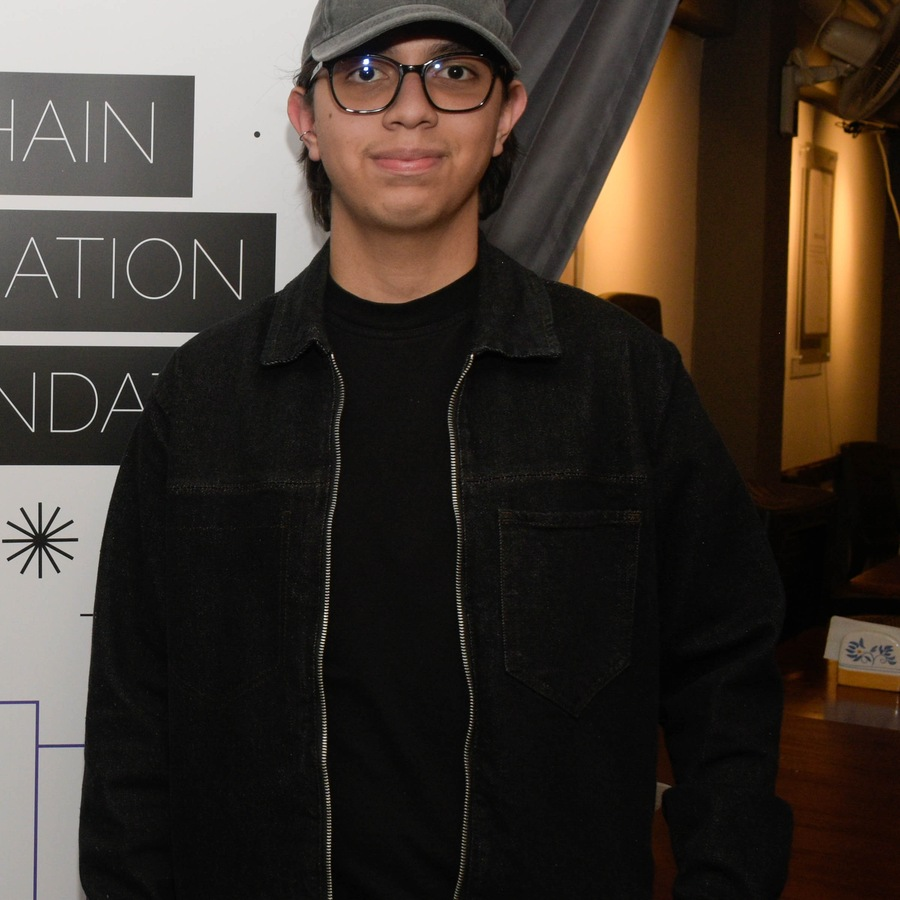
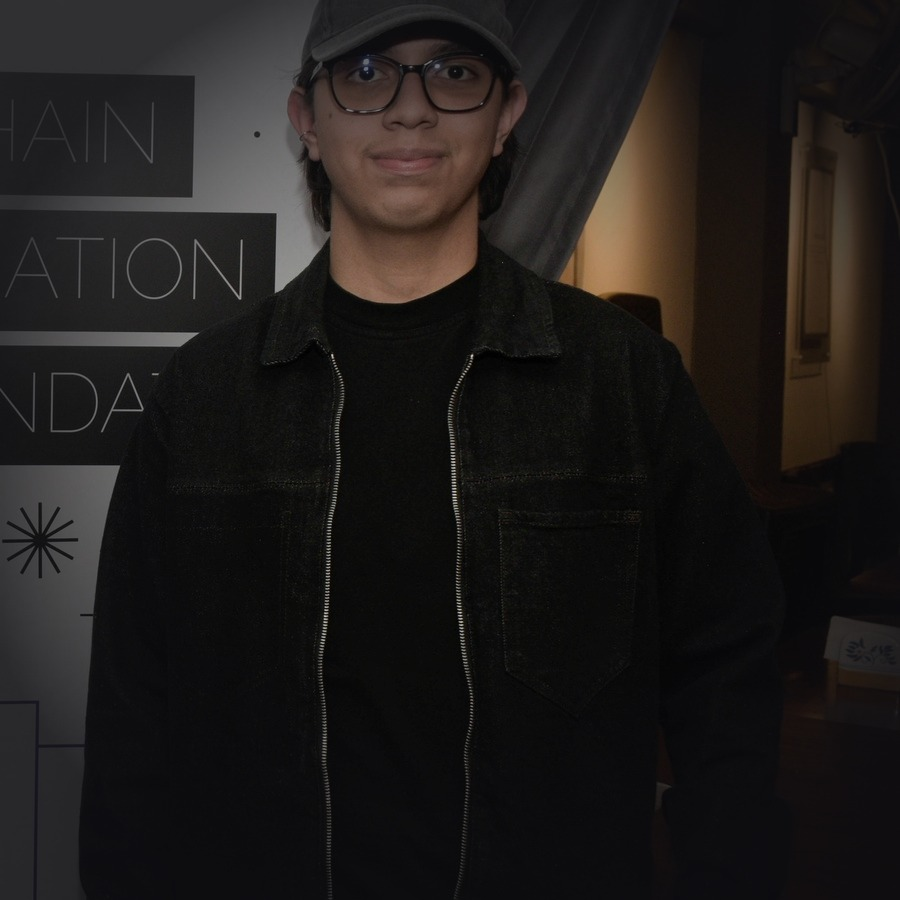
p9: unify team photo backgrounds with soft dark vignette
Replace portraits with vignetted versions and cache-bust img URLs.

diff --git a/p9/index.html b/p9/index.html
@@ -205,7 +205,7 @@ html,body{overflow-x:clip}
 <div class="rec"><article><b>01</b><h3>Talleres prácticos</h3><p>Sesiones para aprender haciendo, desde lo básico hasta lo aplicado.</p></article><article><b>02</b><h3>Material educativo</h3><p>Guías, recursos y contenido curado para explorar Web3 a tu ritmo.</p></article><article><b>03</b><h3>Networking y comunidad</h3><p>Espacios para conectar con personas, ideas y proyectos.</p></article><article><b>04</b><h3>Oportunidades</h3><p>Difusión de programas, convocatorias y espacios para participar.</p></article></div></section>
 <section><div class="hd"><h2><span class="thin">Así se vive</span><br><span class="heavy">ZEEK</span></h2></div><div class="gal"><figure class="big"><img src="assets/g-aleph-grupo.jpg" alt="Aleph Hackathon II" loading="lazy"><figcaption>Aleph Hackathon II</figcaption></figure><figure class=""><img src="assets/g-dev3pack.jpg" alt="Dev3Pack x Solana" loading="lazy"><figcaption>Dev3Pack x Solana</figcaption></figure><figure class=""><img src="assets/g-aleph-build.jpg" alt="Aleph Hackathon" loading="lazy"><figcaption>Aleph Hackathon</figcaption></figure><figure class=""><img src="assets/g-cursor.jpg" alt="Cursor Meetup San José" loading="lazy"><figcaption>Cursor Meetup San José</figcaption></figure><figure class=""><img src="assets/g-tico.jpg" alt="TicoBlockchain" loading="lazy"><figcaption>TicoBlockchain</figcaption></figure><figure class="wide"><img src="assets/gal-una-wide.jpg" alt="Meet Up UNA · 9 de mayo" loading="lazy"></figure><figure class=""><img src="assets/g-sesiones.jpg" alt="Encuentros ZEEK" loading="lazy"><figcaption>Encuentros ZEEK</figcaption></figure><figure class=""><img src="assets/g-meetup.jpg" alt="Meetup ZEEK" loading="lazy"><figcaption>Meetup ZEEK</figcaption></figure></div></section>
 
-<section id="equipo"><div class="hd"><h2><span class="thin">Las personas</span><br><span class="heavy">detrás de ZEEK</span></h2><p>Conocenos. El equipo que hace posible la comunidad.</p></div><div class="team" id="tcar"><button class="arr tarr" id="tpv" type="button" aria-label="Anterior">←</button><button class="arr tarr" id="tnx" type="button" aria-label="Siguiente">→</button><div class="fl3"><div class="fi3"><div class="fa3"><div class="av3"><img src="assets/team/sebastian.jpg" alt="Sebastián Ceciliano" width="120" height="120" loading="lazy" decoding="async"></div><div class="nm"><h4>Sebastián Ceciliano</h4><span class="ib" aria-hidden="true"><svg viewBox="0 0 24 24"><polyline points="3 17 9 11 13 15 21 7"/><polyline points="15 7 21 7 21 13"/></svg></span></div></div><div class="fb3"><div class="rl">Growth Head</div><p>Lidera el crecimiento de ZEEK, sumando aliados y nuevas oportunidades para la comunidad.</p></div></div></div><div class="fl3"><div class="fi3"><div class="fa3"><div class="av3"><img src="assets/team/tamara.jpg" alt="Tamara Ortega" width="120" height="120" loading="lazy" decoding="async"></div><div class="nm"><h4>Tamara Ortega</h4><span class="ib" aria-hidden="true"><svg viewBox="0 0 24 24"><path d="M9.6 2.8h4.8l.55 2.15a6.9 6.9 0 0 1 1.85.95l2.1-.9 2.4 4.15-1.7 1.55c.12.45.18.92.18 1.4s-.06.95-.18 1.4l1.7 1.55-2.4 4.15-2.1-.9a6.9 6.9 0 0 1-1.85.95L14.4 21.2H9.6l-.55-2.15a6.9 6.9 0 0 1-1.85-.95l-2.1.9-2.4-4.15 1.7-1.55A6.8 6.8 0 0 1 4.22 12c0-.48.06-.95.18-1.4L2.7 9.05l2.4-4.15 2.1.9a6.9 6.9 0 0 1 1.85-.95L9.6 2.8z"/><circle cx="12" cy="12" r="3.1"/></svg></span></div></div><div class="fb3"><div class="rl">Operations Head</div><p>Lleva a cabo que los proyectos de ZEEK pasen del papel a la realidad.</p></div></div></div><div class="fl3"><div class="fi3"><div class="fa3"><div class="av3"><img src="assets/team/emilio.jpg" alt="Emilio Alfaro" width="120" height="120" loading="lazy" decoding="async"></div><div class="nm"><h4>Emilio Alfaro</h4><span class="ib" aria-hidden="true"><svg viewBox="0 0 24 24"><path d="M4.5 5.5h11a2 2 0 0 1 2 2v5.2a2 2 0 0 1-2 2H10l-3.2 2.6V14.7H4.5a2 2 0 0 1-2-2V7.5a2 2 0 0 1 2-2z"/><path d="M9.2 16.8h6.3l2.6 2.1v-2.1h.4a2 2 0 0 0 2-2V10"/></svg></span></div></div><div class="fb3"><div class="rl">Communications Head</div><p>Cuenta lo que pasa en ZEEK, compartiendo lo que la comunidad construye.</p></div></div></div><div class="fl3"><div class="fi3"><div class="fa3"><div class="av3"><img src="assets/team/esteban.jpg" alt="Esteban Brenes" width="120" height="120" loading="lazy" decoding="async"></div><div class="nm"><h4>Esteban Brenes</h4><span class="ib" aria-hidden="true"><svg viewBox="0 0 24 24"><polyline points="8 6 3 12 8 18"/><polyline points="16 6 21 12 16 18"/><line x1="13.5" y1="5" x2="10.5" y2="19"/></svg></span></div></div><div class="fb3"><div class="rl">Technical Head</div><p>Acompaña a los builders de ZEEK en el desarrollo de cada proyecto.</p></div></div></div><div class="fl3"><div class="fi3"><div class="fa3"><div class="av3"><img src="assets/team/josue.jpg" alt="Josué Valles" width="120" height="120" loading="lazy" decoding="async"></div><div class="nm"><h4>Josué Valles</h4><span class="ib" aria-hidden="true"><svg viewBox="0 0 24 24"><rect x="3.5" y="5" width="17" height="15.5" rx="2"/><line x1="3.5" y1="10" x2="20.5" y2="10"/><line x1="8" y1="3.5" x2="8" y2="7"/><line x1="16" y1="3.5" x2="16" y2="7"/><circle cx="8.5" cy="14.2" r="0.9" fill="#01E576" stroke="none"/><circle cx="12" cy="14.2" r="0.9" fill="#01E576" stroke="none"/><circle cx="15.5" cy="14.2" r="0.9" fill="#01E576" stroke="none"/></svg></span></div></div><div class="fb3"><div class="rl">Logistics Head</div><p>Coordina que cada evento de la comunidad esté listo, desde el espacio hasta los detalles.</p></div></div></div></div><div class="cc tcc"><div class="dots" id="tdots"></div></div></section>
+<section id="equipo"><div class="hd"><h2><span class="thin">Las personas</span><br><span class="heavy">detrás de ZEEK</span></h2><p>Conocenos. El equipo que hace posible la comunidad.</p></div><div class="team" id="tcar"><button class="arr tarr" id="tpv" type="button" aria-label="Anterior">←</button><button class="arr tarr" id="tnx" type="button" aria-label="Siguiente">→</button><div class="fl3"><div class="fi3"><div class="fa3"><div class="av3"><img src="assets/team/sebastian.jpg?v=vignette1" alt="Sebastián Ceciliano" width="120" height="120" loading="lazy" decoding="async"></div><div class="nm"><h4>Sebastián Ceciliano</h4><span class="ib" aria-hidden="true"><svg viewBox="0 0 24 24"><polyline points="3 17 9 11 13 15 21 7"/><polyline points="15 7 21 7 21 13"/></svg></span></div></div><div class="fb3"><div class="rl">Growth Head</div><p>Lidera el crecimiento de ZEEK, sumando aliados y nuevas oportunidades para la comunidad.</p></div></div></div><div class="fl3"><div class="fi3"><div class="fa3"><div class="av3"><img src="assets/team/tamara.jpg?v=vignette1" alt="Tamara Ortega" width="120" height="120" loading="lazy" decoding="async"></div><div class="nm"><h4>Tamara Ortega</h4><span class="ib" aria-hidden="true"><svg viewBox="0 0 24 24"><path d="M9.6 2.8h4.8l.55 2.15a6.9 6.9 0 0 1 1.85.95l2.1-.9 2.4 4.15-1.7 1.55c.12.45.18.92.18 1.4s-.06.95-.18 1.4l1.7 1.55-2.4 4.15-2.1-.9a6.9 6.9 0 0 1-1.85.95L14.4 21.2H9.6l-.55-2.15a6.9 6.9 0 0 1-1.85-.95l-2.1.9-2.4-4.15 1.7-1.55A6.8 6.8 0 0 1 4.22 12c0-.48.06-.95.18-1.4L2.7 9.05l2.4-4.15 2.1.9a6.9 6.9 0 0 1 1.85-.95L9.6 2.8z"/><circle cx="12" cy="12" r="3.1"/></svg></span></div></div><div class="fb3"><div class="rl">Operations Head</div><p>Lleva a cabo que los proyectos de ZEEK pasen del papel a la realidad.</p></div></div></div><div class="fl3"><div class="fi3"><div class="fa3"><div class="av3"><img src="assets/team/emilio.jpg?v=vignette1" alt="Emilio Alfaro" width="120" height="120" loading="lazy" decoding="async"></div><div class="nm"><h4>Emilio Alfaro</h4><span class="ib" aria-hidden="true"><svg viewBox="0 0 24 24"><path d="M4.5 5.5h11a2 2 0 0 1 2 2v5.2a2 2 0 0 1-2 2H10l-3.2 2.6V14.7H4.5a2 2 0 0 1-2-2V7.5a2 2 0 0 1 2-2z"/><path d="M9.2 16.8h6.3l2.6 2.1v-2.1h.4a2 2 0 0 0 2-2V10"/></svg></span></div></div><div class="fb3"><div class="rl">Communications Head</div><p>Cuenta lo que pasa en ZEEK, compartiendo lo que la comunidad construye.</p></div></div></div><div class="fl3"><div class="fi3"><div class="fa3"><div class="av3"><img src="assets/team/esteban.jpg?v=vignette1" alt="Esteban Brenes" width="120" height="120" loading="lazy" decoding="async"></div><div class="nm"><h4>Esteban Brenes</h4><span class="ib" aria-hidden="true"><svg viewBox="0 0 24 24"><polyline points="8 6 3 12 8 18"/><polyline points="16 6 21 12 16 18"/><line x1="13.5" y1="5" x2="10.5" y2="19"/></svg></span></div></div><div class="fb3"><div class="rl">Technical Head</div><p>Acompaña a los builders de ZEEK en el desarrollo de cada proyecto.</p></div></div></div><div class="fl3"><div class="fi3"><div class="fa3"><div class="av3"><img src="assets/team/josue.jpg?v=vignette1" alt="Josué Valles" width="120" height="120" loading="lazy" decoding="async"></div><div class="nm"><h4>Josué Valles</h4><span class="ib" aria-hidden="true"><svg viewBox="0 0 24 24"><rect x="3.5" y="5" width="17" height="15.5" rx="2"/><line x1="3.5" y1="10" x2="20.5" y2="10"/><line x1="8" y1="3.5" x2="8" y2="7"/><line x1="16" y1="3.5" x2="16" y2="7"/><circle cx="8.5" cy="14.2" r="0.9" fill="#01E576" stroke="none"/><circle cx="12" cy="14.2" r="0.9" fill="#01E576" stroke="none"/><circle cx="15.5" cy="14.2" r="0.9" fill="#01E576" stroke="none"/></svg></span></div></div><div class="fb3"><div class="rl">Logistics Head</div><p>Coordina que cada evento de la comunidad esté listo, desde el espacio hasta los detalles.</p></div></div></div></div><div class="cc tcc"><div class="dots" id="tdots"></div></div></section>
 <section class="partners"><div class="hd"><h2><span class="thin">Nuestros</span><br><span class="heavy">partners</span></h2><p>Organizaciones que construyen con nosotros.</p></div>
 <div class="mqw"><div class="mq"><div class="tr"><a class="pt" href="https://linktr.ee/StellarLATAM" target="_blank" rel="noopener" aria-label="Starmaker · Stellar (abre en pestaña nueva)"><img src="assets/p-stellar.jpg" alt=""><div>Starmaker · Stellar<small>PARTNER</small></div></a><a class="pt" href="https://www.techrebel.world/" target="_blank" rel="noopener" aria-label="Tech Rebel (abre en pestaña nueva)"><span class="wm2">TECH<i>REBEL</i></span><div><small>PARTNER</small></div></a><a class="pt" href="https://crecimiento.build/" target="_blank" rel="noopener" aria-label="Crecimiento (abre en pestaña nueva)"><img src="assets/p-crecimiento.jpg" alt=""><div>Crecimiento<small>PARTNER</small></div></a><a class="pt" href="https://www.blockchainacceleration.org/" target="_blank" rel="noopener" aria-label="BAF (abre en pestaña nueva)"><img src="assets/partners/p-baf.png" alt=""><div>BAF<small>PARTNER</small></div></a><a class="pt" href="https://solana.com/" target="_blank" rel="noopener" aria-label="Solana (abre en pestaña nueva)"><img src="assets/partners/p-solana.png" alt=""><div>Solana<small>PARTNER</small></div></a><a class="pt" href="https://www.dev3pack.xyz/" target="_blank" rel="noopener" aria-label="Dev3Pack (abre en pestaña nueva)"><img src="assets/partners/p-dev3pack.png" alt=""><div>Dev3Pack<small>PARTNER</small></div></a><a class="pt" href="https://cursor.com/" target="_blank" rel="noopener" aria-label="Cursor (abre en pestaña nueva)"><img src="assets/partners/p-cursor.png" alt=""><div>Cursor<small>PARTNER</small></div></a><a class="pt" href="https://pizzadao.org/" target="_blank" rel="noopener" aria-label="PizzaDAO (abre en pestaña nueva)"><img src="assets/partners/p-pizzadao.png" alt=""><div>PizzaDAO<small>PARTNER</small></div></a><a class="pt" href="https://telluscoop.org/" target="_blank" rel="noopener" aria-label="TellusCoop (abre en pestaña nueva)"><img src="assets/partners/p-tellus.png" alt=""><div>TellusCoop<small>PARTNER</small></div></a><a class="pt" href="https://linktr.ee/StellarLATAM" target="_blank" rel="noopener" aria-label="Starmaker · Stellar (abre en pestaña nueva)" tabindex="-1" aria-hidden="true"><img src="assets/p-stellar.jpg" alt=""><div>Starmaker · Stellar<small>PARTNER</small></div></a><a class="pt" href="https://www.techrebel.world/" target="_blank" rel="noopener" aria-label="Tech Rebel (abre en pestaña nueva)" tabindex="-1" aria-hidden="true"><span class="wm2">TECH<i>REBEL</i></span><div><small>PARTNER</small></div></a><a class="pt" href="https://crecimiento.build/" target="_blank" rel="noopener" aria-label="Crecimiento (abre en pestaña nueva)" tabindex="-1" aria-hidden="true"><img src="assets/p-crecimiento.jpg" alt=""><div>Crecimiento<small>PARTNER</small></div></a><a class="pt" href="https://www.blockchainacceleration.org/" target="_blank" rel="noopener" aria-label="BAF (abre en pestaña nueva)" tabindex="-1" aria-hidden="true"><img src="assets/partners/p-baf.png" alt=""><div>BAF<small>PARTNER</small></div></a><a class="pt" href="https://solana.com/" target="_blank" rel="noopener" aria-label="Solana (abre en pestaña nueva)" tabindex="-1" aria-hidden="true"><img src="assets/partners/p-solana.png" alt=""><div>Solana<small>PARTNER</small></div></a><a class="pt" href="https://www.dev3pack.xyz/" target="_blank" rel="noopener" aria-label="Dev3Pack (abre en pestaña nueva)" tabindex="-1" aria-hidden="true"><img src="assets/partners/p-dev3pack.png" alt=""><div>Dev3Pack<small>PARTNER</small></div></a><a class="pt" href="https://cursor.com/" target="_blank" rel="noopener" aria-label="Cursor (abre en pestaña nueva)" tabindex="-1" aria-hidden="true"><img src="assets/partners/p-cursor.png" alt=""><div>Cursor<small>PARTNER</small></div></a><a class="pt" href="https://pizzadao.org/" target="_blank" rel="noopener" aria-label="PizzaDAO (abre en pestaña nueva)" tabindex="-1" aria-hidden="true"><img src="assets/partners/p-pizzadao.png" alt=""><div>PizzaDAO<small>PARTNER</small></div></a><a class="pt" href="https://telluscoop.org/" target="_blank" rel="noopener" aria-label="TellusCoop (abre en pestaña nueva)" tabindex="-1" aria-hidden="true"><img src="assets/partners/p-tellus.png" alt=""><div>TellusCoop<small>PARTNER</small></div></a><a class="pt" href="https://linktr.ee/StellarLATAM" target="_blank" rel="noopener" aria-label="Starmaker · Stellar (abre en pestaña nueva)" tabindex="-1" aria-hidden="true"><img src="assets/p-stellar.jpg" alt=""><div>Starmaker · Stellar<small>PARTNER</small></div></a><a class="pt" href="https://www.techrebel.world/" target="_blank" rel="noopener" aria-label="Tech Rebel (abre en pestaña nueva)" tabindex="-1" aria-hidden="true"><span class="wm2">TECH<i>REBEL</i></span><div><small>PARTNER</small></div></a><a class="pt" href="https://crecimiento.build/" target="_blank" rel="noopener" aria-label="Crecimiento (abre en pestaña nueva)" tabindex="-1" aria-hidden="true"><img src="assets/p-crecimiento.jpg" alt=""><div>Crecimiento<small>PARTNER</small></div></a><a class="pt" href="https://www.blockchainacceleration.org/" target="_blank" rel="noopener" aria-label="BAF (abre en pestaña nueva)" tabindex="-1" aria-hidden="true"><img src="assets/partners/p-baf.png" alt=""><div>BAF<small>PARTNER</small></div></a><a class="pt" href="https://solana.com/" target="_blank" rel="noopener" aria-label="Solana (abre en pestaña nueva)" tabindex="-1" aria-hidden="true"><img src="assets/partners/p-solana.png" alt=""><div>Solana<small>PARTNER</small></div></a><a class="pt" href="https://www.dev3pack.xyz/" target="_blank" rel="noopener" aria-label="Dev3Pack (abre en pestaña nueva)" tabindex="-1" aria-hidden="true"><img src="assets/partners/p-dev3pack.png" alt=""><div>Dev3Pack<small>PARTNER</small></div></a><a class="pt" href="https://cursor.com/" target="_blank" rel="noopener" aria-label="Cursor (abre en pestaña nueva)" tabindex="-1" aria-hidden="true"><img src="assets/partners/p-cursor.png" alt=""><div>Cursor<small>PARTNER</small></div></a><a class="pt" href="https://pizzadao.org/" target="_blank" rel="noopener" aria-label="PizzaDAO (abre en pestaña nueva)" tabindex="-1" aria-hidden="true"><img src="assets/partners/p-pizzadao.png" alt=""><div>PizzaDAO<small>PARTNER</small></div></a><a class="pt" href="https://telluscoop.org/" target="_blank" rel="noopener" aria-label="TellusCoop (abre en pestaña nueva)" tabindex="-1" aria-hidden="true"><img src="assets/partners/p-tellus.png" alt=""><div>TellusCoop<small>PARTNER</small></div></a></div></div><div class="mq rev"><div class="tr"><a class="pt" href="https://www.ticoblockchain.cr/" target="_blank" rel="noopener" aria-label="Ticoblockchain (abre en pestaña nueva)"><div>Ticoblockchain<small>ALIADO</small></div></a><a class="pt" href="https://ufidelitas.ac.cr/" target="_blank" rel="noopener" aria-label="Fidélitas (abre en pestaña nueva)"><div>Fidélitas<small>ALIADO</small></div></a><a class="pt" href="https://www.trustlesswork.com/" target="_blank" rel="noopener" aria-label="Trustless Work (abre en pestaña nueva)"><img src="assets/partners/p-trustless.png" alt=""><div>Trustless Work<small>ALIADO</small></div></a><a class="pt" href="https://asoblockchain.org/" target="_blank" rel="noopener" aria-label="AsoBlockchain (abre en pestaña nueva)"><img src="assets/partners/p-aso.png" alt=""><div>AsoBlockchain<small>ALIADO</small></div></a><a class="pt" href="https://stellar.org/" target="_blank" rel="noopener" aria-label="Stellar SDF (abre en pestaña nueva)"><img src="assets/partners/p-sdf.png" alt=""><div>Stellar SDF<small>ALIADO</small></div></a><a class="pt" href="https://stellarpassport.xyz/" target="_blank" rel="noopener" aria-label="Stellar Passport (abre en pestaña nueva)"><img src="assets/partners/p-spassport.png" alt=""><div>Stellar Passport<small>ALIADO</small></div></a><a class="pt" href="https://luma.com/user/SuperteamCR" target="_blank" rel="noopener" aria-label="Superteam CR (abre en pestaña nueva)"><img src="assets/partners/p-superteam.png" alt=""><div>Superteam CR<small>ALIADO</small></div></a><a class="pt" href="https://www.lyfter.academy/" target="_blank" rel="noopener" aria-label="Lyfter (abre en pestaña nueva)"><img src="assets/partners/p-lyfter.png" alt=""><div>Lyfter<small>ALIADO</small></div></a><a class="pt" href="https://brave.com/" target="_blank" rel="noopener" aria-label="Brave (abre en pestaña nueva)"><img src="assets/partners/p-brave.png" alt=""><div>Brave<small>ALIADO</small></div></a><a class="pt" href="https://crtechweek.com/" target="_blank" rel="noopener" aria-label="CR Tech Week (abre en pestaña nueva)"><img src="assets/partners/p-crtech.png" alt=""><div>CR Tech Week<small>ALIADO</small></div></a><a class="pt" href="https://costarica.wordcamp.org/2026/sponsor/zeek/" target="_blank" rel="noopener" aria-label="WordCamp CR (abre en pestaña nueva)"><img src="assets/partners/p-wordcamp.png" alt=""><div>WordCamp CR<small>ALIADO</small></div></a><a class="pt" href="https://linktr.ee/SolanaCR" target="_blank" rel="noopener" aria-label="Solana Costa Rica (abre en pestaña nueva)"><img src="assets/partners/p-solanacr.png" alt=""><div>Solana Costa Rica<small>ALIADO</small></div></a><a class="pt" href="https://luma.com/spacexsi-community" target="_blank" rel="noopener" aria-label="SpaceXSI (abre en pestaña nueva)"><img src="assets/partners/p-spacexsi.png" alt=""><div>SpaceXSI<small>ALIADO</small></div></a><a class="pt" href="https://www.ticoblockchain.cr/" target="_blank" rel="noopener" aria-label="Ticoblockchain (abre en pestaña nueva)" tabindex="-1" aria-hidden="true"><div>Ticoblockchain<small>ALIADO</small></div></a><a class="pt" href="https://ufidelitas.ac.cr/" target="_blank" rel="noopener" aria-label="Fidélitas (abre en pestaña nueva)" tabindex="-1" aria-hidden="true"><div>Fidélitas<small>ALIADO</small></div></a><a class="pt" href="https://www.trustlesswork.com/" target="_blank" rel="noopener" aria-label="Trustless Work (abre en pestaña nueva)" tabindex="-1" aria-hidden="true"><img src="assets/partners/p-trustless.png" alt=""><div>Trustless Work<small>ALIADO</small></div></a><a class="pt" href="https://asoblockchain.org/" target="_blank" rel="noopener" aria-label="AsoBlockchain (abre en pestaña nueva)" tabindex="-1" aria-hidden="true"><img src="assets/partners/p-aso.png" alt=""><div>AsoBlockchain<small>ALIADO</small></div></a><a class="pt" href="https://stellar.org/" target="_blank" rel="noopener" aria-label="Stellar SDF (abre en pestaña nueva)" tabindex="-1" aria-hidden="true"><img src="assets/partners/p-sdf.png" alt=""><div>Stellar SDF<small>ALIADO</small></div></a><a class="pt" href="https://stellarpassport.xyz/" target="_blank" rel="noopener" aria-label="Stellar Passport (abre en pestaña nueva)" tabindex="-1" aria-hidden="true"><img src="assets/partners/p-spassport.png" alt=""><div>Stellar Passport<small>ALIADO</small></div></a><a class="pt" href="https://luma.com/user/SuperteamCR" target="_blank" rel="noopener" aria-label="Superteam CR (abre en pestaña nueva)" tabindex="-1" aria-hidden="true"><img src="assets/partners/p-superteam.png" alt=""><div>Superteam CR<small>ALIADO</small></div></a><a class="pt" href="https://www.lyfter.academy/" target="_blank" rel="noopener" aria-label="Lyfter (abre en pestaña nueva)" tabindex="-1" aria-hidden="true"><img src="assets/partners/p-lyfter.png" alt=""><div>Lyfter<small>ALIADO</small></div></a><a class="pt" href="https://brave.com/" target="_blank" rel="noopener" aria-label="Brave (abre en pestaña nueva)" tabindex="-1" aria-hidden="true"><img src="assets/partners/p-brave.png" alt=""><div>Brave<small>ALIADO</small></div></a><a class="pt" href="https://crtechweek.com/" target="_blank" rel="noopener" aria-label="CR Tech Week (abre en pestaña nueva)" tabindex="-1" aria-hidden="true"><img src="assets/partners/p-crtech.png" alt=""><div>CR Tech Week<small>ALIADO</small></div></a><a class="pt" href="https://costarica.wordcamp.org/2026/sponsor/zeek/" target="_blank" rel="noopener" aria-label="WordCamp CR (abre en pestaña nueva)" tabindex="-1" aria-hidden="true"><img src="assets/partners/p-wordcamp.png" alt=""><div>WordCamp CR<small>ALIADO</small></div></a><a class="pt" href="https://linktr.ee/SolanaCR" target="_blank" rel="noopener" aria-label="Solana Costa Rica (abre en pestaña nueva)" tabindex="-1" aria-hidden="true"><img src="assets/partners/p-solanacr.png" alt=""><div>Solana Costa Rica<small>ALIADO</small></div></a><a class="pt" href="https://luma.com/spacexsi-community" target="_blank" rel="noopener" aria-label="SpaceXSI (abre en pestaña nueva)" tabindex="-1" aria-hidden="true"><img src="assets/partners/p-spacexsi.png" alt=""><div>SpaceXSI<small>ALIADO</small></div></a></div></div></div><div class="pgrid" id="pgrid"><a class="pt" href="https://linktr.ee/StellarLATAM" target="_blank" rel="noopener" aria-label="Starmaker · Stellar (abre en pestaña nueva)"><img src="assets/p-stellar.jpg" alt=""><div>Starmaker · Stellar<small>PARTNER</small></div></a><a class="pt" href="https://www.techrebel.world/" target="_blank" rel="noopener" aria-label="Tech Rebel (abre en pestaña nueva)"><span class="wm2">TECH<i>REBEL</i></span><div><small>PARTNER</small></div></a><a class="pt" href="https://crecimiento.build/" target="_blank" rel="noopener" aria-label="Crecimiento (abre en pestaña nueva)"><img src="assets/p-crecimiento.jpg" alt=""><div>Crecimiento<small>PARTNER</small></div></a><a class="pt" href="https://www.blockchainacceleration.org/" target="_blank" rel="noopener" aria-label="BAF (abre en pestaña nueva)"><img src="assets/partners/p-baf.png" alt=""><div>BAF<small>PARTNER</small></div></a><a class="pt" href="https://solana.com/" target="_blank" rel="noopener" aria-label="Solana (abre en pestaña nueva)"><img src="assets/partners/p-solana.png" alt=""><div>Solana<small>PARTNER</small></div></a><a class="pt" href="https://www.dev3pack.xyz/" target="_blank" rel="noopener" aria-label="Dev3Pack (abre en pestaña nueva)"><img src="assets/partners/p-dev3pack.png" alt=""><div>Dev3Pack<small>PARTNER</small></div></a><a class="pt" href="https://cursor.com/" target="_blank" rel="noopener" aria-label="Cursor (abre en pestaña nueva)"><img src="assets/partners/p-cursor.png" alt=""><div>Cursor<small>PARTNER</small></div></a><a class="pt" href="https://pizzadao.org/" target="_blank" rel="noopener" aria-label="PizzaDAO (abre en pestaña nueva)"><img src="assets/partners/p-pizzadao.png" alt=""><div>PizzaDAO<small>PARTNER</small></div></a><a class="pt" href="https://telluscoop.org/" target="_blank" rel="noopener" aria-label="TellusCoop (abre en pestaña nueva)"><img src="assets/partners/p-tellus.png" alt=""><div>TellusCoop<small>PARTNER</small></div></a><a class="pt" href="https://www.ticoblockchain.cr/" target="_blank" rel="noopener" aria-label="Ticoblockchain (abre en pestaña nueva)"><div>Ticoblockchain<small>ALIADO</small></div></a><a class="pt" href="https://ufidelitas.ac.cr/" target="_blank" rel="noopener" aria-label="Fidélitas (abre en pestaña nueva)"><div>Fidélitas<small>ALIADO</small></div></a><a class="pt" href="https://www.trustlesswork.com/" target="_blank" rel="noopener" aria-label="Trustless Work (abre en pestaña nueva)"><img src="assets/partners/p-trustless.png" alt=""><div>Trustless Work<small>ALIADO</small></div></a><a class="pt" href="https://asoblockchain.org/" target="_blank" rel="noopener" aria-label="AsoBlockchain (abre en pestaña nueva)"><img src="assets/partners/p-aso.png" alt=""><div>AsoBlockchain<small>ALIADO</small></div></a><a class="pt" href="https://stellar.org/" target="_blank" rel="noopener" aria-label="Stellar SDF (abre en pestaña nueva)"><img src="assets/partners/p-sdf.png" alt=""><div>Stellar SDF<small>ALIADO</small></div></a><a class="pt" href="https://stellarpassport.xyz/" target="_blank" rel="noopener" aria-label="Stellar Passport (abre en pestaña nueva)"><img src="assets/partners/p-spassport.png" alt=""><div>Stellar Passport<small>ALIADO</small></div></a><a class="pt" href="https://luma.com/user/SuperteamCR" target="_blank" rel="noopener" aria-label="Superteam CR (abre en pestaña nueva)"><img src="assets/partners/p-superteam.png" alt=""><div>Superteam CR<small>ALIADO</small></div></a><a class="pt" href="https://www.lyfter.academy/" target="_blank" rel="noopener" aria-label="Lyfter (abre en pestaña nueva)"><img src="assets/partners/p-lyfter.png" alt=""><div>Lyfter<small>ALIADO</small></div></a><a class="pt" href="https://brave.com/" target="_blank" rel="noopener" aria-label="Brave (abre en pestaña nueva)"><img src="assets/partners/p-brave.png" alt=""><div>Brave<small>ALIADO</small></div></a><a class="pt" href="https://crtechweek.com/" target="_blank" rel="noopener" aria-label="CR Tech Week (abre en pestaña nueva)"><img src="assets/partners/p-crtech.png" alt=""><div>CR Tech Week<small>ALIADO</small></div></a><a class="pt" href="https://costarica.wordcamp.org/2026/sponsor/zeek/" target="_blank" rel="noopener" aria-label="WordCamp CR (abre en pestaña nueva)"><img src="assets/partners/p-wordcamp.png" alt=""><div>WordCamp CR<small>ALIADO</small></div></a><a class="pt" href="https://linktr.ee/SolanaCR" target="_blank" rel="noopener" aria-label="Solana Costa Rica (abre en pestaña nueva)"><img src="assets/partners/p-solanacr.png" alt=""><div>Solana Costa Rica<small>ALIADO</small></div></a><a class="pt" href="https://luma.com/spacexsi-community" target="_blank" rel="noopener" aria-label="SpaceXSI (abre en pestaña nueva)"><img src="assets/partners/p-spacexsi.png" alt=""><div>SpaceXSI<small>ALIADO</small></div></a></div><button class="pall" type="button" aria-controls="pgrid" aria-expanded="false">Ver todos</button></section>
 <section id="comunidad"><div class="hd"><h2><span class="thin">Nuestros</span><br><span class="heavy">canales</span></h2></div><div class="bento">
